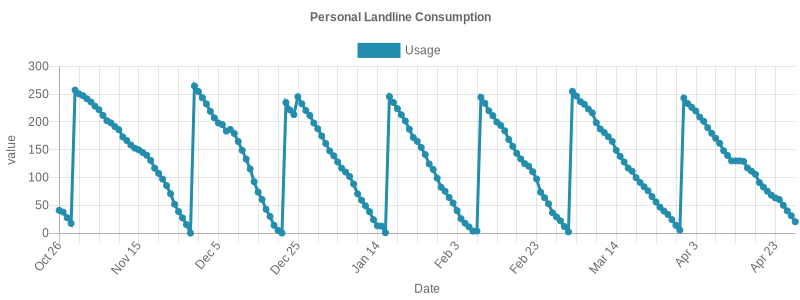
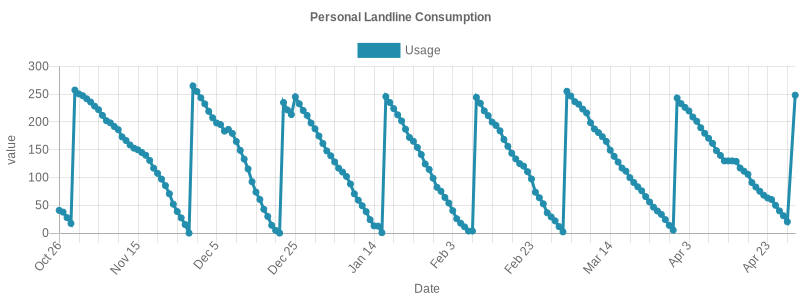
update logs

diff --git a/quota-logs/README.md b/quota-logs/README.md
@@ -184,3 +184,4 @@
 ## Fri Apr 26 2024 00:34:37 GMT+0200|39.98/250
 ## Sat Apr 27 2024 00:35:13 GMT+0200|31.25/250
 ## Sun Apr 28 2024 00:34:57 GMT+0200|20.44/250
+## Tue Apr 30 2024 00:34:44 GMT+0200|248.28/260
